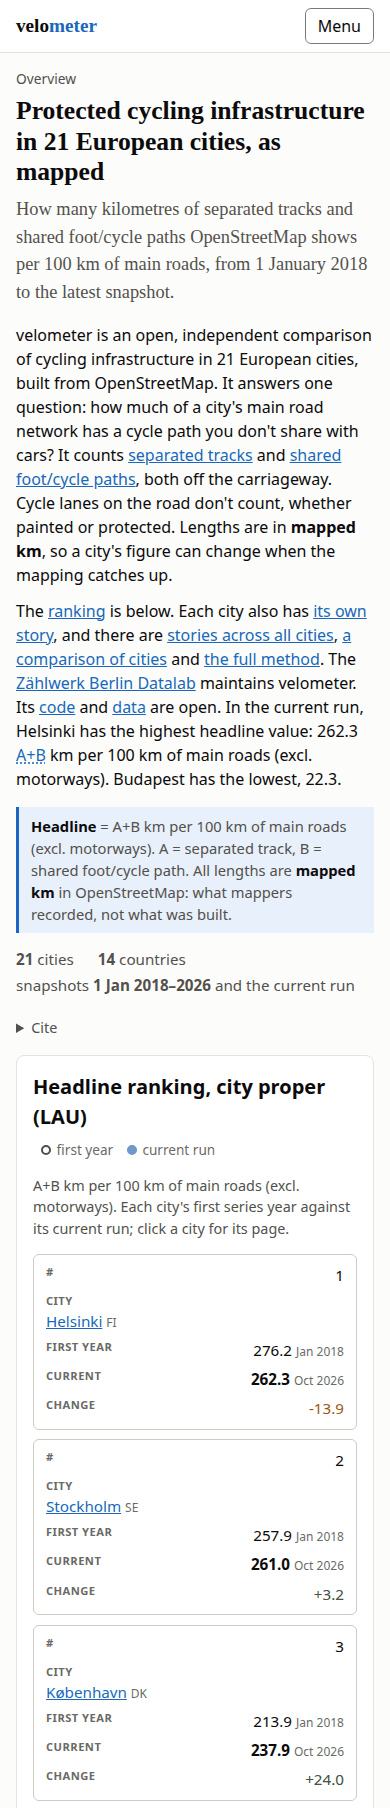
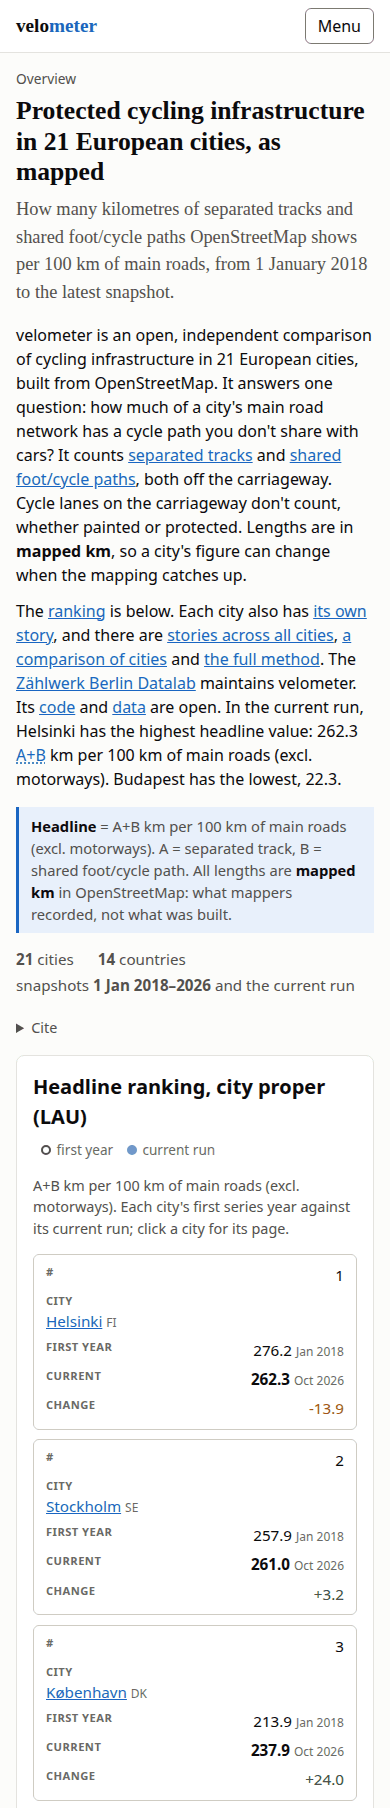
fix(m17): one source for a description that is the dek; wording fixes from review
An absent English description now means the dek: walk yields `description` as the English
description or the dek, so the German description is stamped from whichever stands, and a
dek edit marks it stale. A German file without one is complete and uses the German dek. The
9 English descriptions that copied their dek are dropped. Ljubljana (en) keeps "the same
paths"; Helsinki, Copenhagen and Utrecht (de) reworded; the home lead says "carriageway"
twice (English renders redone).

Assisted-by: Claude:claude-opus-5-5

Changed region(s): [[0.0308, 0.2788, 0.9231, 0.3407]]

diff --git a/src/velometer/content/translate.py b/src/velometer/content/translate.py
@@ -34,6 +34,11 @@ from velometer.content.models import (
 )
 
 English = Narrative | Explainer | Organisation
+# A narrative's `description` (its meta description, M17 Task 2d) is its own English string when
+# the file has one, else the dek: German writes one only where its dek is too long for a meta
+# description. Its German twin is stamped from that English, so a changed dek marks it stale; a
+# German file without one is complete, and its page falls back to the German dek.
+OPTIONAL = frozenset({"description"})
 Translation = NarrativeTr | DocumentTr | OrganisationTr
 DE = "de"
 FOLD_OVER = 80  # longer strings are dumped in folded style
@@ -64,8 +69,7 @@ def walk(model: English) -> Iterator[tuple[str, str]]:
     if isinstance(model, Narrative):
         yield "title", model.title
         yield "dek", model.dek
-        if model.description is not None:
-            yield "description", model.description
+        yield "description", model.description if model.description is not None else model.dek
     elif isinstance(model, Explainer):
         yield "title", model.title
         for i, p in enumerate(model.intro):
@@ -137,8 +141,12 @@ def merge(en_model: English, tr: Translation | None) -> tuple[English, frozenset
     doc = en_model.model_dump()
     for path, text in german.items():
         _set(doc, path, text)
+    absent = frozenset(p for p in OPTIONAL if p in english and p not in german)
+    for path in absent:  # no German of its own: the German page uses what stands for it (the dek)
+        _set(doc, path, None)
     doc["literals"] = list(tr.literals)
-    return type(en_model).model_validate(doc), frozenset(english) - frozenset(german)
+    fallback = frozenset(english) - frozenset(german) - absent
+    return type(en_model).model_validate(doc), fallback
 
 
 # --- files --------------------------------------------------------------------------------
@@ -344,7 +352,10 @@ def git_history(path: Path) -> list[str]:
 
 
 def _english_at(doc: Any, walk_path: str) -> str | None:
-    """The string at a walk path of a raw English file, None when it has none."""
+    """The string at a walk path of a raw English file, None when it has none (a narrative's
+    `description` is its dek where it has none of its own)."""
+    if walk_path in OPTIONAL and isinstance(doc, dict) and doc.get(walk_path) is None:
+        walk_path = "dek"
     try:
         node: Any = doc
         for part in walk_path.split("."):

diff --git a/tests/test_content_de.py b/tests/test_content_de.py
@@ -487,3 +487,51 @@ def test_the_shipped_german_counter_page_states_the_rule_through_its_facts():
         for x in ck.literal_counter_rules(p, rules, others, ck.RULES["de"])
     }
     assert declared and caught == declared
+
+
+# --- a narrative's meta description (M17 Task 2d) ----------------------------------------
+
+
+def _stale_paths(tree) -> set[str]:
+    return {
+        p.split(": ", 1)[0].rsplit(" ", 1)[1]
+        for p in tree.check()[0]
+        if p.startswith("[de] ") and "stale (English changed)" in p
+    }
+
+
+def test_a_german_description_stands_on_the_dek_without_an_english_one(tree):
+    """Without an English `description` the German one is translated from the dek and stamped
+    from it, so editing the dek marks the German description stale too (no second English
+    copy of the dek to forget)."""
+    en = tr.load_english(tree.en)
+    assert en.description is None
+    assert dict(tr.walk(en))["description"] == en.dek
+    tree.edit("dek", lambda s: s + " Now longer.")
+    assert _stale_paths(tree) == {"dek", "description"}
+
+
+def test_a_german_description_follows_an_english_one(tree):
+    """With an English `description`, the German one is stamped from it: editing it marks the
+    German description stale, and the dek's own twin stays current."""
+    doc = tr.yaml.safe_load(tree.en.read_text(encoding="utf-8"))
+    doc["description"] = "Berlin has a description of its own here, for the meta tag."
+    tr.dump(tree.en, doc)
+    fake_translate(tree.en, tree.de)
+    assert tree.check(require_de=True) == ([], [])
+    tree.edit("description", lambda s: s.replace("its own", "its very own"))
+    assert _stale_paths(tree) == {"description"}
+
+
+def test_a_german_description_is_optional(tree):
+    """A German file without a description is complete; its page uses the German dek, never
+    an English description."""
+    doc = tr.yaml.safe_load(tree.en.read_text(encoding="utf-8"))
+    doc["description"] = "Berlin has a description of its own here, for the meta tag."
+    tr.dump(tree.en, doc)
+    fake_translate(tree.en, tree.de, drop=frozenset({"description"}))
+    assert tree.check(require_de=True) == ([], [])
+    en = tr.load_english(tree.en)
+    merged, fallback = tr.merge(en, tr.load_translation(tree.de, en))
+    assert merged.description is None and "description" not in fallback
+    assert merged.dek.startswith("Übersetzt: ")

diff --git a/src/velometer/content/check.py b/src/velometer/content/check.py
@@ -53,6 +53,7 @@ from velometer.content.models import (
 from velometer.content.ocr import MAX_OCR_PAGES, OcrResult, empty_pages, ocr_pages, thin_pages
 from velometer.content.translate import DE as DE_DIR
 from velometer.content.translate import (
+    OPTIONAL,
     English,
     History,
     Translation,
@@ -802,6 +803,8 @@ def check_translation(
     versions: list[str] | None = None
     for path, en_text in english.items():
         de = german.get(path)
+        if de is None and path in OPTIONAL:
+            continue  # written only where German needs it
         if de is None:
             incomplete(f" {path}: missing German text")
             continue
@@ -838,7 +841,11 @@ def check_translation(
     except ValueError as e:  # pydantic's ValidationError too: a rule the German text breaks
         problem(f": the German text does not validate in the English structure: {e}")
         return problems, notes
-    prose = [text for path, text in walk(merged) if path not in fallback]
+    prose = [
+        text
+        for path, text in walk(merged)
+        if path not in fallback and (path not in OPTIONAL or path in german)
+    ]
     config_dir = Path(data.config_dir) if data is not None else None
     problems += _check_document(
         f"{DE}{de_rel}",

diff --git a/tests/test_m17_home_lead.py b/tests/test_m17_home_lead.py
@@ -269,4 +269,7 @@ ROAD_APART = {"en": r"apart from the road|away from the road", "de": r"abseits d
 
 def test_home_lead_places_counted_types_truly(homes):
     for lang, html in homes.items():
-        assert not re.search(ROAD_APART[lang], _text(_lead(html))), lang
+        text = _text(_lead(html))
+        assert not re.search(ROAD_APART[lang], text), lang
+        # one word for the part of the street cars drive on, where lanes are and paths are not
+        assert not ("carriageway" in text and "on the road" in text), lang

diff --git a/tests/test_m17_crawl.py b/tests/test_m17_crawl.py
@@ -342,4 +342,4 @@ def test_llms_txt_years_are_the_history_years():
     text = (REPO / "content" / "llms.md").read_text(encoding="utf-8")
     assert "(one per year since" in text and "plus the current state)" in text
     years = [int(y) for y in re.findall(r"\bsince (\d{4})\b", text)]
-    assert len(years) >= 2 and set(years) == {first}, years
+    assert len(years) >= 1 and set(years) == {first}, years

diff --git a/docs/review/m17-text.md b/docs/review/m17-text.md
@@ -336,7 +336,9 @@ tier A's tracks beside the road (`A_track_side`). Same facts, nothing new. Chang
 - **The ranking sentence** is two sentences, both inside the one `#home-sentence` element. A
   test holds every sentence of the lead to at most 25 words (the old ranking sentence had 27).
 - **"apart from the road"** becomes "off the carriageway" / "außerhalb der Fahrbahn": true of a
-  track beside the road, a standalone cycleway, a segregated path and a shared path alike.
+  track beside the road, a standalone cycleway, a segregated path and a shared path alike. The
+  next sentence then says "Cycle lanes on the carriageway" (fix round 1: one word for it, as
+  German has "Fahrbahn" twice).
 
 English, new (140 words, was 155):
 
@@ -344,7 +346,7 @@ English, new (140 words, was 155):
 > built from OpenStreetMap. It answers one question: how much of a city's main road network has a
 > cycle path you don't share with cars? It counts [separated tracks](/methodology#term-tier-a) and
 > [shared foot/cycle paths](/methodology#term-tier-b), both off the carriageway. Cycle lanes on
-> the road don't count, whether painted or protected. Lengths are in **mapped km**, so a city's
+> the carriageway don't count, whether painted or protected. Lengths are in **mapped km**, so a city's
 > figure can change when the mapping catches up.
 >
 > The [ranking](#ranking) is below. Each city also has [its own story](/cities), and there are
@@ -431,8 +433,8 @@ City names, values and the city count come from the data; the rest is fixed text
 ### Renders
 
 Top of the home page down to the ranking's third row, real data, public site values
-(re-rendered 2026-11-02 with the tightened lead; axe 0 violations in all 8; the diagram variant
-is the old one, not re-rendered):
+(re-rendered 2026-11-02 with the tightened lead, the four English ones again after fix round 1;
+axe 0 violations in all 8; the diagram variant is the old one, not re-rendered):
 
 - `m17-home/home-{en,de}-{light,dark}-390.png`
 - `m17-home/home-{en,de}-{light,dark}-1280.png`
@@ -643,32 +645,43 @@ is cut. The content check reads it like the dek (declared numbers, no constructi
 a test holds every shipped one to 50–160. The descriptions keep each dek's figures and its
 mapping caveat (ADR 0006) and add nothing.
 
-Where the English dek already fits (9 cities), the English description is the dek verbatim, so
-only the German is new text; the 5 cities whose English dek is too long get a new English one
-too. Draft text, not approved:
+Where the English dek already fits (9 cities), the English file has no `description`: an
+absent English description means the dek (fix round 1, Ruling 2d-a, one source of truth). The
+German description is then stamped from the English dek, so a dek edit marks it stale; where
+the English file has its own description (the 5 cities whose English dek is too long), the
+German one is stamped from that. A German file without a description is complete and its page
+uses the German dek. Draft text, not approved:
 
-| city | en | en chars | de | de chars |
+| city | en (as the page uses it) | en chars | de | de chars |
 |---|---|---:|---|---:|
-| amsterdam | = the dek | 135 | Die Hauptkennzahl sank von 205,6 (2018) auf 203,0 (Oktober 2026); die einzige sichtbare Verschiebung (2025, Radwege zu Geh- und Radwegen) war eine Tag-Änderung. | 160 |
-| berlin | = the dek | 153 | Kartierte A+B-km je 100 km Hauptstraßen: 113,7 (2018), 109,1 (Oktober 2026); 2022 ein Rückgang in einer Kartierungskampagne, seitdem ein langsamer Anstieg. | 155 |
-| bratislava | = the dek | 128 | Die Hauptkennzahl stieg von 43,5 (2018) auf 58,7 (Oktober 2026), nach einem Rückgang 2020, der eine Bereinigung von Tags war, kein Verlust von Wegen. | 149 |
-| budapest | = the dek | 135 | Die Hauptkennzahl stieg von 19,4 (2018) auf 22,3 (Oktober 2026), Tiefstwert der 21 Städte; kartierte markierte Radfahrstreifen haben sich mehr als verdoppelt. | 158 |
-| copenhagen | = the dek | 147 | Kartierte A+B-km stiegen von 530 (2018) auf 582 (Oktober 2026), fast nur bei baulich getrennten Radwegen; 2025 sanken Geh- und Radwege durch eine Tag-Änderung. | 159 |
-| helsinki | Mapped A+B stayed between 1,279 and 1,292 km from 2018 to October 2026; the headline fell from 276.2 to 262.3 as more streets were tagged as main roads. | 152 | Kartiert blieben 2018 bis Oktober 2026 1.279 bis 1.292 A+B-km; die Hauptkennzahl fiel von 276,2 auf 262,3, weil mehr Straßen als Hauptstraßen getaggt wurden. | 157 |
+| amsterdam | (the dek) The headline went from 205.6 in 2018 to 203.0 in October 2026; the one visible shift, from tracks to shared paths in 2025, was a retag. | 135 | Die Hauptkennzahl sank von 205,6 (2018) auf 203,0 (Oktober 2026); die einzige sichtbare Verschiebung (2025, Radwege zu Geh- und Radwegen) war eine Tag-Änderung. | 160 |
+| berlin | (the dek) Mapped A+B km per 100 km of main roads went from 113.7 in 2018 to 109.1 in October 2026: one step down in a 2022 re-mapping campaign, a slow climb since. | 153 | Kartierte A+B-km je 100 km Hauptstraßen: 113,7 (2018), 109,1 (Oktober 2026); 2022 ein Rückgang in einer Kartierungskampagne, seitdem ein langsamer Anstieg. | 155 |
+| bratislava | (the dek) The headline rose from 43.5 in 2018 to 58.7 in October 2026, after a fall in 2020 that was a retagging clean-up, not lost paths. | 128 | Die Hauptkennzahl stieg von 43,5 (2018) auf 58,7 (Oktober 2026), nach einem Rückgang 2020, der eine Bereinigung von Tags war, kein Verlust von Wegen. | 149 |
+| budapest | (the dek) The headline rose from 19.4 in 2018 to 22.3 in October 2026, the lowest of the 21 cities, while mapped painted lanes more than doubled. | 135 | Die Hauptkennzahl stieg von 19,4 (2018) auf 22,3 (Oktober 2026), Tiefstwert der 21 Städte; kartierte markierte Radfahrstreifen haben sich mehr als verdoppelt. | 158 |
+| copenhagen | (the dek) Mapped A+B rose from 530 to 582 km between 2018 and October 2026, almost all of it in separated tracks; the 2025 dip in shared paths was retagging. | 147 | Kartierte A+B-km stiegen von 530 (2018) auf 582 (Oktober 2026), fast nur bei baulich getrennten Radwegen; der Geh- und Radweg-Knick 2025 war eine Tag-Änderung. | 159 |
+| helsinki | Mapped A+B stayed between 1,279 and 1,292 km from 2018 to October 2026; the headline fell from 276.2 to 262.3 as more streets were tagged as main roads. | 152 | Kartierte A+B-km: 1.279 bis 1.292 km von 2018 bis Oktober 2026; die Hauptkennzahl fiel von 276,2 auf 262,3, weil mehr Straßen als Hauptstraßen getaggt wurden. | 158 |
 | krakow | The headline rose from 40.2 to 72.6 mapped A+B km per 100 km of main roads from 2018 to October 2026, the steepest relative climb of the three Polish cities. | 157 | Die Hauptkennzahl stieg 2018 bis Oktober 2026 von 40,2 auf 72,6 kartierte A+B-km je 100 km Hauptstraßen, der relativ steilste Anstieg der drei Städte Polens. | 157 |
-| ljubljana | The headline rose from 46.5 to 73.5 mapped A+B km per 100 km of main roads from 2018 to October 2026; its largest step is mostly paths mapped a new way. | 152 | Die Hauptkennzahl stieg von 46,5 (2018) auf 73,5 (Oktober 2026) kartierte A+B-km je 100 km Hauptstraßen; größter Schritt: meist dieselben Wege, neu kartiert. | 157 |
-| madrid | = the dek | 153 | Die kartierten A+B-km stiegen von 2018 bis Oktober 2026 von 282 auf 353 km, die Hauptkennzahl nur von 38,1 auf 42,5 kartierte A+B-km je 100 km Hauptstraßen. | 156 |
-| oslo | = the dek | 147 | Die Hauptkennzahl stieg von 2018 bis Oktober 2026 von 53,1 auf 70,8; ihr einziger großer Schritt kam von Gehwegen, die als Geh- und Radwege neu getaggt wurden. | 159 |
-| stockholm | = the dek | 150 | Die Hauptkennzahl stieg 2018 bis Oktober 2026 nur von 257,9 auf 261,0; kleine Tag-Änderungen verschoben km von Geh- und Radwegen zu baulich getrennten Radwegen. | 160 |
-| strasbourg | = the dek | 144 | Die kartierten A+B-km stiegen von 2018 bis Oktober 2026 von 184 auf 241 km; schon 2018 lag die Hauptkennzahl bei 123,2 kartierten A+B-km je 100 km Hauptstraßen. | 160 |
-| utrecht | The headline rose from 179.7 in 2018 to 193.6 in October 2026, partly as fewer main-road km were mapped; inside A+B, km drifted from tracks to shared paths. | 156 | Die Hauptkennzahl stieg von 179,7 (2018) auf 193,6 (Oktober 2026), teils durch weniger kartierte Hauptstraßen; km wanderten von Rad- zu Geh- und Radwegen. | 154 |
+| ljubljana | The headline rose from 46.5 to 73.5 mapped A+B km per 100 km of main roads from 2018 to October 2026; its largest step is mostly the same paths remapped. | 153 | Die Hauptkennzahl stieg von 46,5 (2018) auf 73,5 (Oktober 2026) kartierte A+B-km je 100 km Hauptstraßen; größter Schritt: meist dieselben Wege, neu kartiert. | 157 |
+| madrid | (the dek) Mapped A+B rose from 282 to 353 km between 2018 and October 2026, while the headline moved only from 38.1 to 42.5 mapped A+B km per 100 km of main roads. | 153 | Die kartierten A+B-km stiegen von 2018 bis Oktober 2026 von 282 auf 353 km, die Hauptkennzahl nur von 38,1 auf 42,5 kartierte A+B-km je 100 km Hauptstraßen. | 156 |
+| oslo | (the dek) The headline rose from 53.1 to 70.8 between 2018 and October 2026; its one large step came from footways retagged as combined foot and cycle paths. | 147 | Die Hauptkennzahl stieg von 2018 bis Oktober 2026 von 53,1 auf 70,8; ihr einziger großer Schritt kam von Gehwegen, die als Geh- und Radwege neu getaggt wurden. | 159 |
+| stockholm | (the dek) The headline moved only from 257.9 to 261.0 between 2018 and October 2026, while years of small retags moved km from shared paths to separated tracks. | 150 | Die Hauptkennzahl stieg 2018 bis Oktober 2026 nur von 257,9 auf 261,0; kleine Tag-Änderungen verschoben km von Geh- und Radwegen zu baulich getrennten Radwegen. | 160 |
+| strasbourg | (the dek) Mapped A+B rose from 184 to 241 km between 2018 and October 2026; already in 2018 the headline was 123.2 mapped A+B km per 100 km of main roads. | 144 | Die kartierten A+B-km stiegen von 2018 bis Oktober 2026 von 184 auf 241 km; schon 2018 lag die Hauptkennzahl bei 123,2 kartierten A+B-km je 100 km Hauptstraßen. | 160 |
+| utrecht | The headline rose from 179.7 in 2018 to 193.6 in October 2026, partly as fewer main-road km were mapped; inside A+B, km drifted from tracks to shared paths. | 156 | Hauptkennzahl: 179,7 (2018), 193,6 (Oktober 2026), teils durch weniger kartierte Hauptstraßen; innerhalb von A+B wanderten km von Rad- zu Geh- und Radwegen. | 156 |
 | warsaw | The headline rose from 53.4 (2018) to 82.3 (October 2026) mapped A+B km per 100 km of main roads; its biggest step was retagged expressways, not cycle paths. | 157 | Die Hauptkennzahl stieg 2018 bis Oktober 2026 von 53,4 auf 82,3 kartierte A+B-km je 100 km Hauptstraßen; ihr größter Schritt: neu getaggte Schnellstraßen. | 154 |
 
 Small departures from the dek's wording, for review: Stockholm's German says "stieg … nur"
 (rose only) where the dek says "bewegte sich … nur" (moved only); the figures rise, and the
 shorter verb is what fits. Helsinki drops "not because cycle paths went missing" and keeps the
 cause (more streets tagged as main roads); Warsaw (de) drops "nicht von Radwegen" and keeps the
-cause (retagged expressways). Several German ones write the years in brackets, "(2018)".
+cause (retagged expressways). Copenhagen (de) names the dip as one in the shared-path km
+("Geh- und Radweg-Knick"). Utrecht (de) writes the headline without a verb, "Hauptkennzahl:
+179,7 (2018), 193,6 (Oktober 2026)", to keep "innerhalb von A+B". Several German ones write the
+years in brackets, "(2018)".
+
+Fix round 1 (2026-11-02) changed: Ljubljana (en) "mostly paths mapped a new way" → "mostly the
+same paths remapped" (existing paths, not new ones); Helsinki (de) no longer sets two numbers
+side by side; Copenhagen (de) says the km fell, not the paths; Utrecht (de) restores "innerhalb
+von A+B".
 
 ### Datalab (German only)
 
